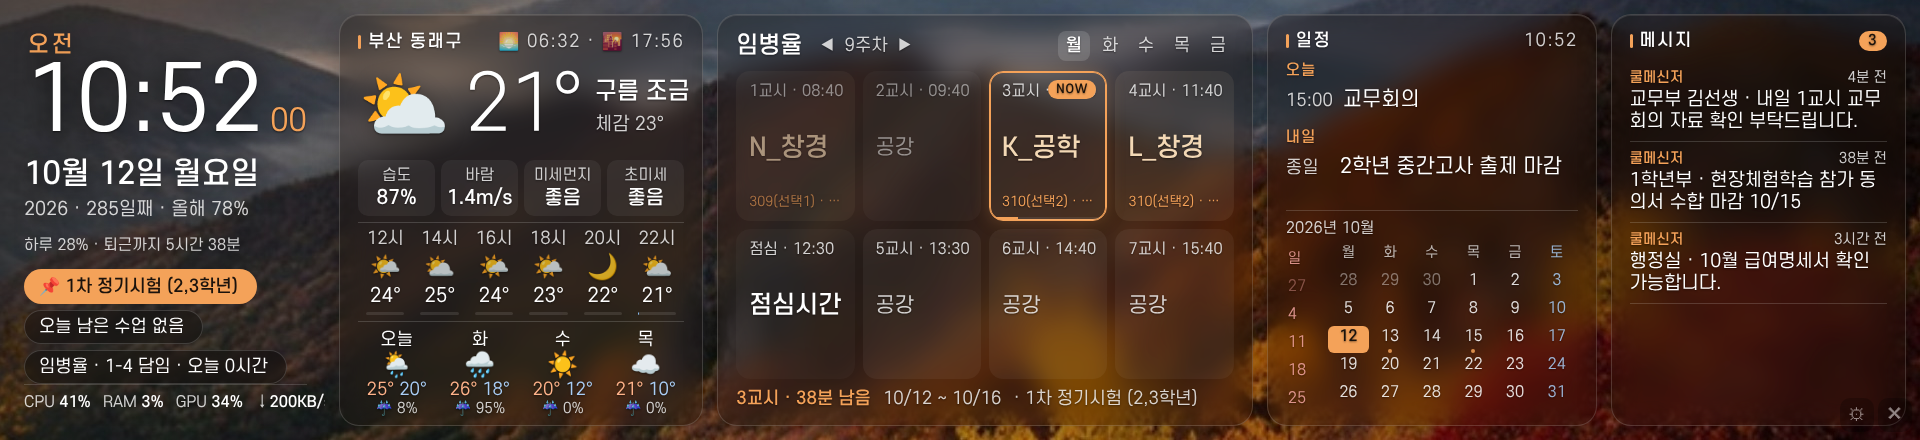
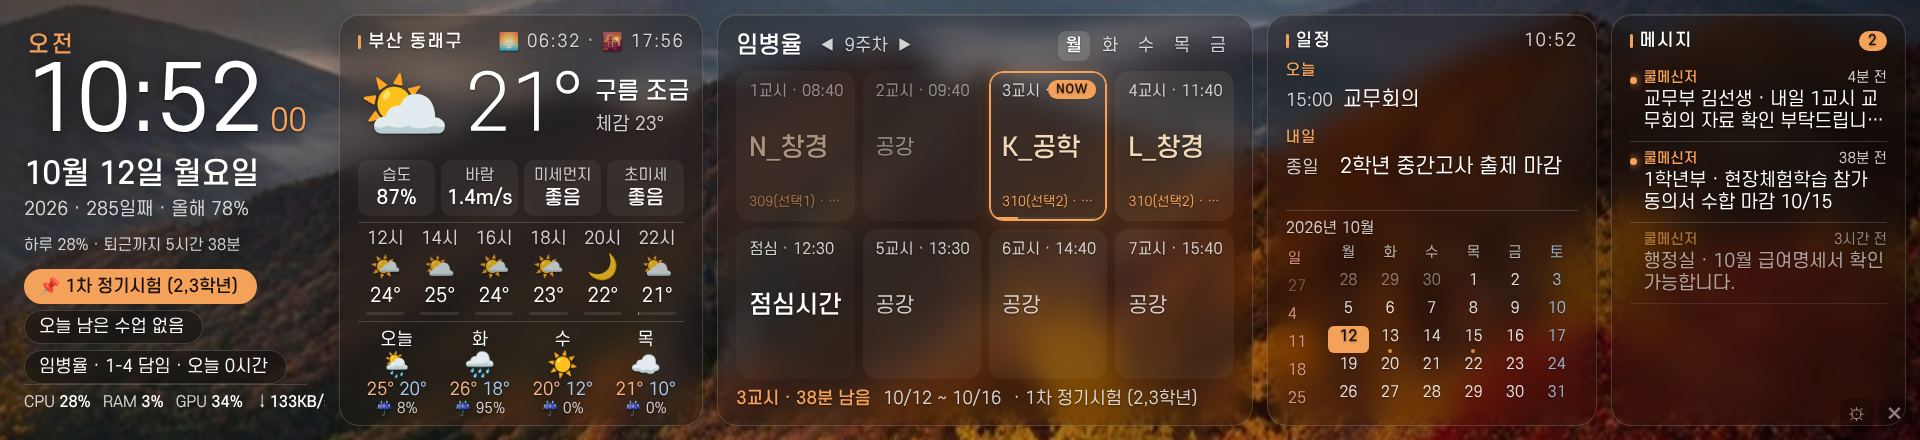
메시지: 삭제 쪽지 제외, 읽음/안읽음 구분 표시, 배지는 안읽음 수만
Claude-Session: https://claude.ai/code/session_01QUPbRqurHMyWrBwvsguQbh

diff --git a/web/detail.js b/web/detail.js
@@ -199,11 +199,11 @@ function viewEvents() {
 
 /* ---------- 메시지 상세 ---------- */
 function viewMessages() {
-  const src = { notification: 'Windows 알림 수신', title: '창 제목 감지', none: '감지된 경로 없음' }[msgData.source] || msgData.source;
-  const items = msgData.items.length ? msgData.items.map(m => `<div class="dli"><span class="t">${timeAgo(m.time)}</span>
+  const src = { udb: '쿨메신저 DB 직접 읽기 (tbl_recv)', notification: 'Windows 알림 수신', title: '창 제목 감지', none: '감지된 경로 없음' }[msgData.source] || msgData.source;
+  const items = msgData.items.length ? msgData.items.map(m => `<div class="dli ${m.unread === false ? 'read' : 'unread'}"><span class="t">${timeAgo(m.time)}</span>
       <span class="n"><b style="color:var(--accent);font-weight:500">${esc(m.app || '메시지')}</b> · ${esc(m.title)}${m.body ? ` <span class="muted">${esc(m.body)}</span>` : ''}</span></div>`).join('')
     : '<div class="dli muted">새 메시지 없음</div>';
-  return { title: `메시지 · 안읽음 ${msgData.count}건`, html: `<div class="dgrid ev one"><div class="dcard"><div class="dc-t">최근 알림<b><button class="mbtn" data-msgclear>모두 지우기</button></b></div><div class="dlist">${items}</div></div>
+  return { title: `메시지 · 안읽음 ${msgData.count}건`, html: `<div class="dgrid ev one"><div class="dcard"><div class="dc-t">최근 쪽지 ${msgData.items.length}건<b><button class="mbtn" data-msgclear>모두 지우기</button></b></div><div class="dlist">${items}</div></div>
     <div class="dcard"><div class="dc-t">연결 상태</div>
       <div class="dli"><span class="t">방식</span><span class="n">${esc(src)}</span></div>
       ${msgData.error ? `<div class="dli"><span class="t">안내</span><span class="n" style="white-space:normal">${esc(msgData.error)}</span></div>` : ''}

diff --git a/web/index.html b/web/index.html
@@ -37,7 +37,9 @@
   #pcMini b { color: var(--text); font-weight: 500; }
   /* 메시지 패널 */
   #msgList { flex: 1; min-height: 0; overflow: hidden; }
-  .mi { padding: 8px 0; border-bottom: 1px solid var(--line); }
+  .mi { padding: 8px 0 8px 14px; border-bottom: 1px solid var(--line); position: relative; }
+  .mi.read { opacity: .6; }
+  .mi.unread::before { content: ''; position: absolute; left: 0; top: 16px; width: 7px; height: 7px; border-radius: 50%; background: var(--accent); box-shadow: 0 0 8px var(--accent); }
   .mi .h { display: flex; justify-content: space-between; font-size: 14px; color: var(--muted); }
   .mi .h b { color: var(--accent); font-weight: 500; }
   .mi .b { font-size: 18px; margin-top: 2px; overflow: hidden; display: -webkit-box; -webkit-line-clamp: 2; -webkit-box-orient: vertical; }
@@ -540,10 +542,10 @@ function renderMessages() {
   const b = $('msgBadge'); b.textContent = msgData.count; b.className = 'badge' + (msgData.count ? '' : ' zero');
   if (!msgData.items.length) {
     $('msgList').innerHTML = `<div id="msgEmpty">${msgData.source === 'none'
-      ? '새 메시지 없음<br><small>' + esc(msgData.error || '쿨메신저 알림을 기다리는 중') + '</small>' : '새 메시지 없음'}</div>`;
+      ? '새 메시지 없음<br><small>' + esc(msgData.error || '쿨메신저 알림을 기다리는 중') + '</small>' : '수신 쪽지 없음'}</div>`;
     return;
   }
-  $('msgList').innerHTML = msgData.items.map(m => `<div class="mi"><div class="h"><b>${esc(m.app || '메시지')}</b><span>${timeAgo(m.time)}</span></div>
+  $('msgList').innerHTML = msgData.items.map(m => `<div class="mi ${m.unread === false ? 'read' : 'unread'}"><div class="h"><b>${esc(m.app || '메시지')}</b><span>${timeAgo(m.time)}</span></div>
     <div class="b">${esc(m.title)}${m.body ? ' · ' + esc(m.body) : ''}</div></div>`).join('');
 }
 

diff --git a/web/detail.css b/web/detail.css
@@ -135,3 +135,5 @@ body.detail #root { visibility: hidden; }
 
 .mbtn { all: unset; cursor: pointer; font-size: 15px; font-weight: 500; padding: 6px 14px; border-radius: 9px; background: rgba(255,255,255,.12); }
 .mbtn:active { background: var(--accent); color: #1a120c; }
+.dli.read { opacity: .6; }
+.dli.unread > .t::before { content: '●'; color: var(--accent); margin-right: 6px; font-size: 10px; vertical-align: middle; }

diff --git a/notify.py b/notify.py
@@ -132,9 +132,13 @@ class UdbReader:
             if "content" not in cols and "title" not in cols:
                 self.error = f"{self.table} 컬럼을 해석하지 못함: {names}"
                 return []
-            where = ""
+            conds = []
             if self.unread_only and "read" in cols:
-                where = f"WHERE {self._unread_cond(cols['read'])}"
+                conds.append(self._unread_cond(cols["read"]))
+            del_col = next((c for c in names if c.lower().replace("_", "") in ("deleteddate", "deleted", "isdeleted", "delyn")), None)
+            if del_col:
+                conds.append(f"({del_col} IS NULL OR {del_col} IN ('', 0, '0', 'N'))")
+            where = ("WHERE " + " AND ".join(conds)) if conds else ""
             order = f"ORDER BY {cols['date']} DESC" if "date" in cols else (f"ORDER BY {cols['key']} DESC" if "key" in cols else "")
             rows = con.execute(f"SELECT * FROM {self.table} {where} {order} LIMIT {int(limit)}").fetchall()
             idx = {n: i for i, n in enumerate(names)}
@@ -150,8 +154,15 @@ class UdbReader:
                 # MessageText 는 보통 제목 문장으로 시작하므로 제목을 또 붙이지 않는다
                 title, content = str(g("title") or ""), content.strip()
                 body = content if (not title or content.startswith(title)) else " ".join(x for x in (title, content) if x)
+                rv = g("read")
+                if "read" not in cols:
+                    unread = True
+                elif "unread" in cols["read"].lower().replace("_", ""):
+                    unread = rv not in (None, 0, "0", "N", "n", "")
+                else:
+                    unread = rv in (None, 0, "0", "N", "n", "")
                 out.append({"id": f"u{g('key') if 'key' in cols else hash(r)}", "app": "쿨메신저", "title": str(g("sender") or title or "쪽지"),
-                            "body": body[:200], "time": ts})
+                            "body": body[:200], "time": ts, "unread": bool(unread)})
             self.error = ""
             return out
 
@@ -281,7 +292,10 @@ class MessageWatcher:
         return self._result()
 
     def _result(self):
-        count = sum(it.get("count", 1) for it in self.items)
+        if self.source == "udb":
+            count = sum(1 for it in self.items if it.get("unread"))
+        else:
+            count = sum(it.get("count", 1) for it in self.items)
         err = self.error or (self._listener_err if self.source == "none" else "")
         if self.source == "none" and self.udb and self.udb.error:
             err = self.udb.error + (" · " + err if err else "")
